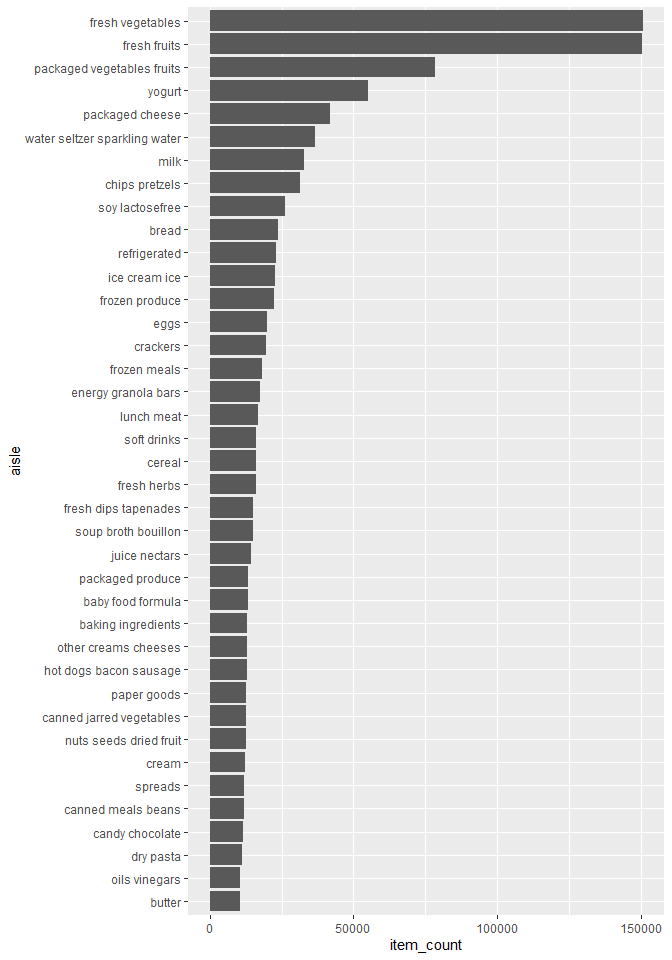
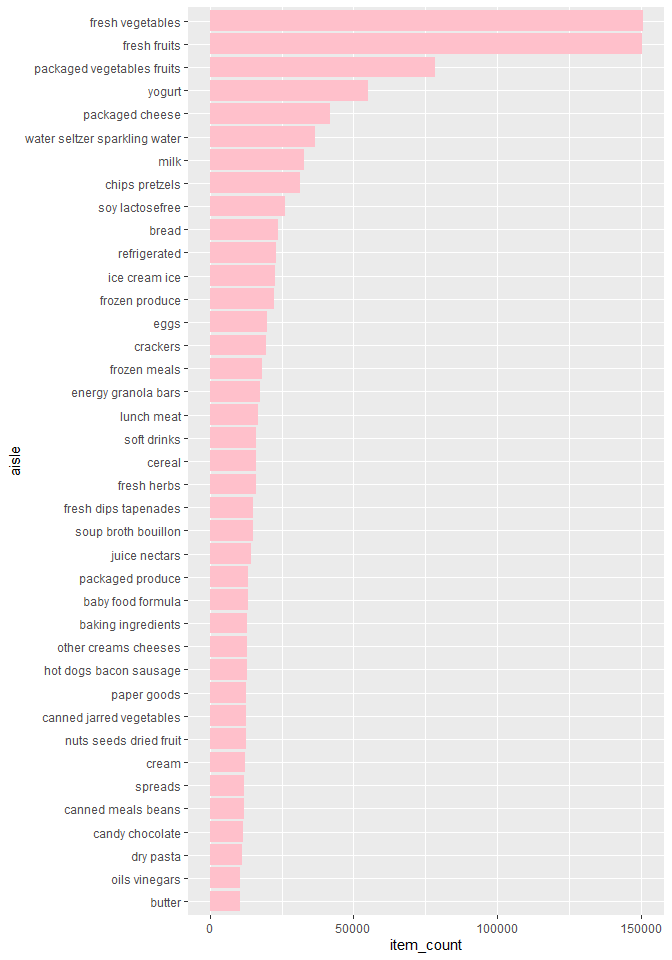
Adding descriptions and explanations

Changed region(s): [[0.3125, 0.0, 0.9688, 0.9688]]

diff --git a/p8105_hw3_fw2334.md b/p8105_hw3_fw2334.md
@@ -10,6 +10,19 @@ library(p8105.datasets)
 data("instacart") 
 ```
 
+The `instacart` dataset includes information regarding online grocery
+orders in 2017. There are 1384617 observations in the dataset, each row
+being a product ordered, and there are 131209 unique users. The dataset
+has 15 variables, including `days_since_prior_order`, `product_name`,
+`aisle` where the product is from, and `reordered`, which indicates if
+the user has previously ordered the product. An example: order ID \#1
+refers to an order of Bulgarian Yogurt, Organic 4% Milk Fat Whole Milk
+Cottage Cheese, Organic Celery Hearts, Cucumber Kirby, Lightly Smoked
+Sardines in Olive Oil, Bag of Organic Bananas, Organic Hass Avocado,
+Organic Whole String Cheese. The variable `days_since_prior_order` = 9,
+indicating that this user last ordered groceries on instacart nine days
+ago.
+
 ``` r
 aisle_df = instacart %>% 
   group_by(aisle) %>% 
@@ -17,21 +30,23 @@ aisle_df = instacart %>%
   arrange(desc(item_count))
 ```
 
-There are 134 aisles. The most items are ordered from `fresh vegetables`
-and `fresh fruits`.
+There are 134 aisles, and the most items are ordered from `fresh
+vegetables` and `fresh fruits`.
 
 ``` r
 aisle_plot = aisle_df %>%
   filter(item_count >= 10000) %>% 
   mutate(aisle = fct_reorder(aisle, item_count)) %>% 
   ggplot(aes(x = aisle, y = item_count)) +
-    geom_bar(stat = "identity") +
+    geom_bar(stat = "identity", fill = "pink") +
     coord_flip()
 
 aisle_plot
 ```
 
 ![](p8105_hw3_fw2334_files/figure-gfm/unnamed-chunk-3-1.png)<!-- -->
+Fruits and vegetables were by far the most ordered products, followed by
+yogurt. All other products were ordered fewer than 50,000 times.
 
 ### Table
 
@@ -63,34 +78,49 @@ knitr::kable(aisles_table)
 
 ### Pink Lady Apples and Coffee Ice Cream
 
-##### 0 is Sunday - say “I’m assigning Sunday to 0”
-
-##### convert times to hour of day
+##### 0 is Sunday - assign Sunday to 0
 
 ``` r
 apples_icecream_table = instacart %>% 
   select(product_name, order_dow, order_hour_of_day) %>% 
   filter(product_name == "Pink Lady Apples" | product_name == "Coffee Ice Cream") %>% 
-  group_by(product_name, order_dow) %>% 
+  mutate(order_day = as.numeric(order_dow)) %>% 
+  group_by(product_name, order_day) %>% 
   mutate(mean_hour = mean(order_hour_of_day)) %>% 
-  select(-order_hour_of_day) %>% 
+  select(-order_hour_of_day, -order_dow) %>% 
   distinct() %>% 
   pivot_wider(
     names_from = product_name,
-    values_from = mean_hour)
+    values_from = mean_hour) %>% 
+  arrange(order_day) %>% 
+  separate("Pink Lady Apples", c("apples_hr", "apples_min"), 2) %>% 
+  separate("Coffee Ice Cream", c("icecream_hr", "icecream_min"), 2) %>% 
+  mutate(
+    apples_minute = round(as.numeric(apples_min)*60),
+    ice_cream_minute = round(as.numeric(icecream_min)*60),
+    pink_lady_apples = paste(apples_hr, apples_minute, sep = ":"),
+    coffee_ice_cream = paste(icecream_hr, ice_cream_minute, sep = ":")) %>% 
+  select(order_day, pink_lady_apples, coffee_ice_cream)
+```
 
+### Table 1: Mean time of day
+
+``` r
 knitr::kable(apples_icecream_table)
 ```
 
-| order\_dow | Pink Lady Apples | Coffee Ice Cream |
-| ---------: | ---------------: | ---------------: |
-|          3 |         14.25000 |         15.31818 |
-|          2 |         11.70213 |         15.38095 |
-|          1 |         11.36000 |         14.31579 |
-|          6 |         11.93750 |         13.83333 |
-|          4 |         11.55172 |         15.21739 |
-|          0 |         13.44118 |         13.77419 |
-|          5 |         12.78431 |         12.26316 |
+| order\_day | pink\_lady\_apples | coffee\_ice\_cream |
+| ---------: | :----------------- | :----------------- |
+|          0 | 13:26              | 13:46              |
+|          1 | 11:22              | 14:19              |
+|          2 | 11:42              | 15:23              |
+|          3 | 14:15              | 15:19              |
+|          4 | 11:33              | 15:13              |
+|          5 | 12:47              | 12:16              |
+|          6 | 11:56              | 13:50              |
+
+Coffee ice cream was on average ordered later in the day than pink lady
+apples.
 
 # Problem 2
 
@@ -115,8 +145,8 @@ brfss_7locations = brfss_cleaned %>%
 ```
 
 In 2002, the states with 7 or more distinct locations were CT, FL, MA,
-NC, NJ, PA. in 2010, CA, CO, FL, MA, MD, NC, NE, NJ, NY, OH, PA, SC, TX,
-WA.
+NC, NJ, PA. In 2010, The states with 7 or more dinstinct locations were
+CA, CO, FL, MA, MD, NC, NE, NJ, NY, OH, PA, SC, TX, WA.
 
 ``` r
 brfss_excellent = brfss_cleaned %>% 
@@ -130,7 +160,7 @@ brfss_excellent = brfss_cleaned %>%
 brfss_excellent
 ```
 
-![](p8105_hw3_fw2334_files/figure-gfm/unnamed-chunk-8-1.png)<!-- -->
+![](p8105_hw3_fw2334_files/figure-gfm/unnamed-chunk-9-1.png)<!-- -->
 
 ``` r
 brfss_ny = brfss_cleaned %>% 
@@ -140,13 +170,13 @@ brfss_ny = brfss_cleaned %>%
   select(year, state, response_ordered, data_value) %>% 
   group_by(year, response_ordered) %>% 
   ggplot(aes(x = response_ordered, y = data_value)) +
-    geom_point() +
+    geom_bar(stat = "identity") +
     facet_grid(~year)
 
 brfss_ny
 ```
 
-![](p8105_hw3_fw2334_files/figure-gfm/unnamed-chunk-9-1.png)<!-- -->
+![](p8105_hw3_fw2334_files/figure-gfm/unnamed-chunk-10-1.png)<!-- -->
 
 # Problem 3
 
@@ -164,7 +194,7 @@ accel_df = read_csv(file = "./data/accel_data.csv") %>%
       day_f, levels = c("Monday", "Tuesday", "Wednesday", "Thursday", "Friday", "Saturday", "Sunday")),
     minute = substr(minute, 10, nchar(minute)),
     minute_of_day = as.numeric(minute)) %>%
-  select(-day_f, -day, minute)
+  select(-day_f, -day, -minute)
 ```
 
     ## Parsed with column specification:
@@ -175,8 +205,7 @@ accel_df = read_csv(file = "./data/accel_data.csv") %>%
 
     ## See spec(...) for full column specifications.
 
-This dataset has 50400 observations. Do pivot longer 50400 observations
-and 6 variables.
+This dataset has 50400 observations and 6.
 
 ``` r
 accel_total = accel_df %>% 
@@ -236,4 +265,4 @@ accel_24hr
 
     ## `geom_smooth()` using method = 'gam' and formula 'y ~ s(x, bs = "cs")'
 
-![](p8105_hw3_fw2334_files/figure-gfm/unnamed-chunk-12-1.png)<!-- -->
+![](p8105_hw3_fw2334_files/figure-gfm/unnamed-chunk-13-1.png)<!-- -->
